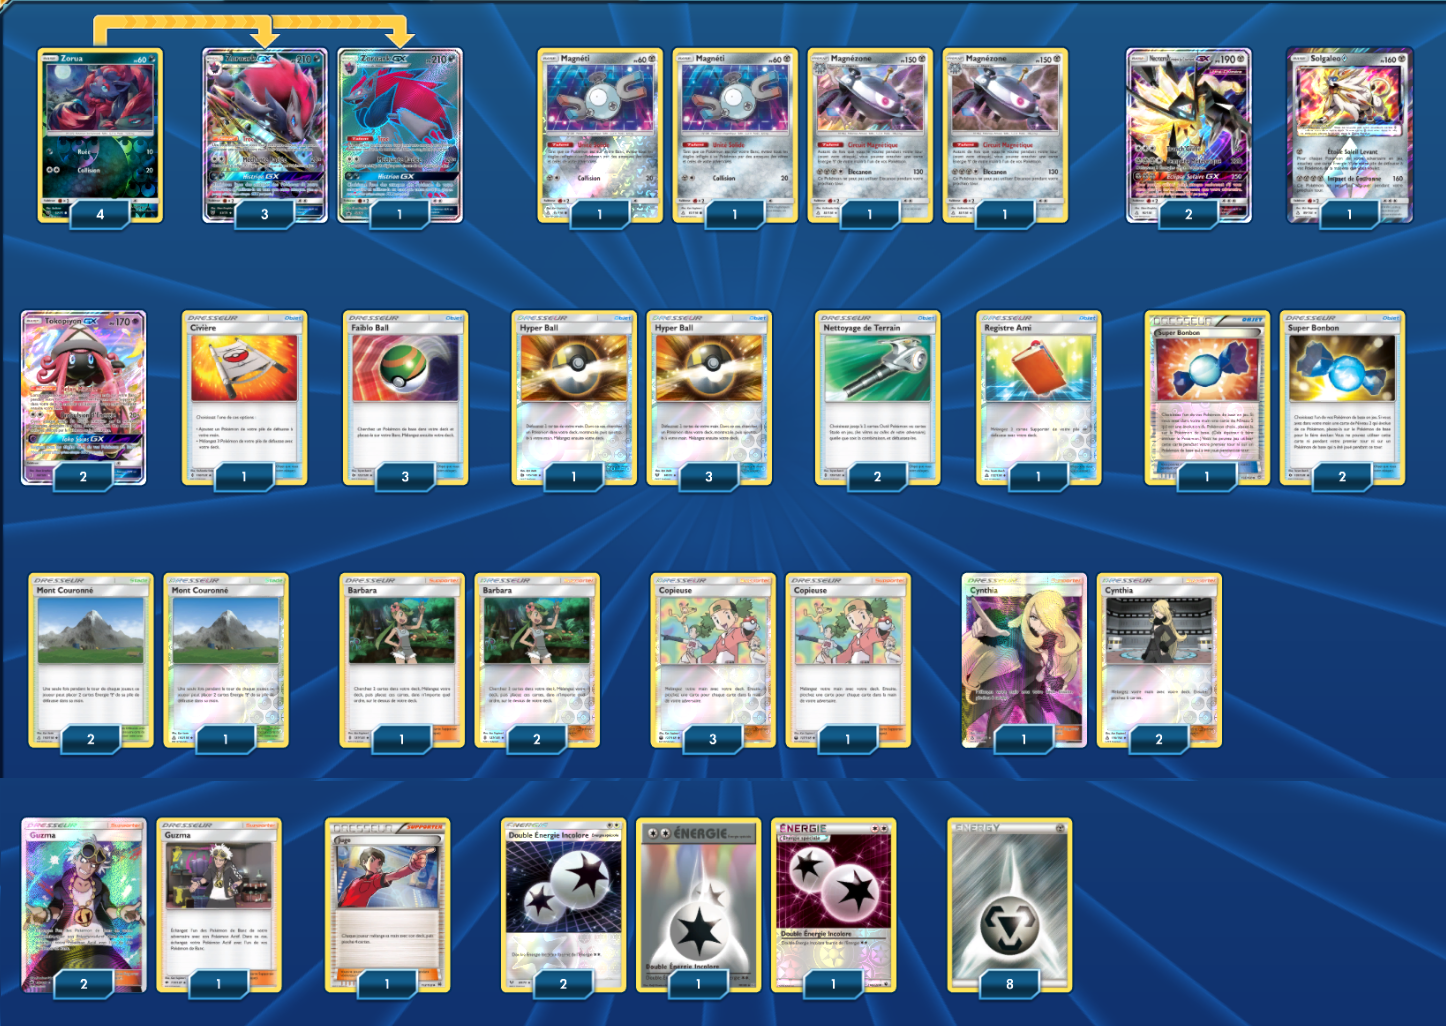
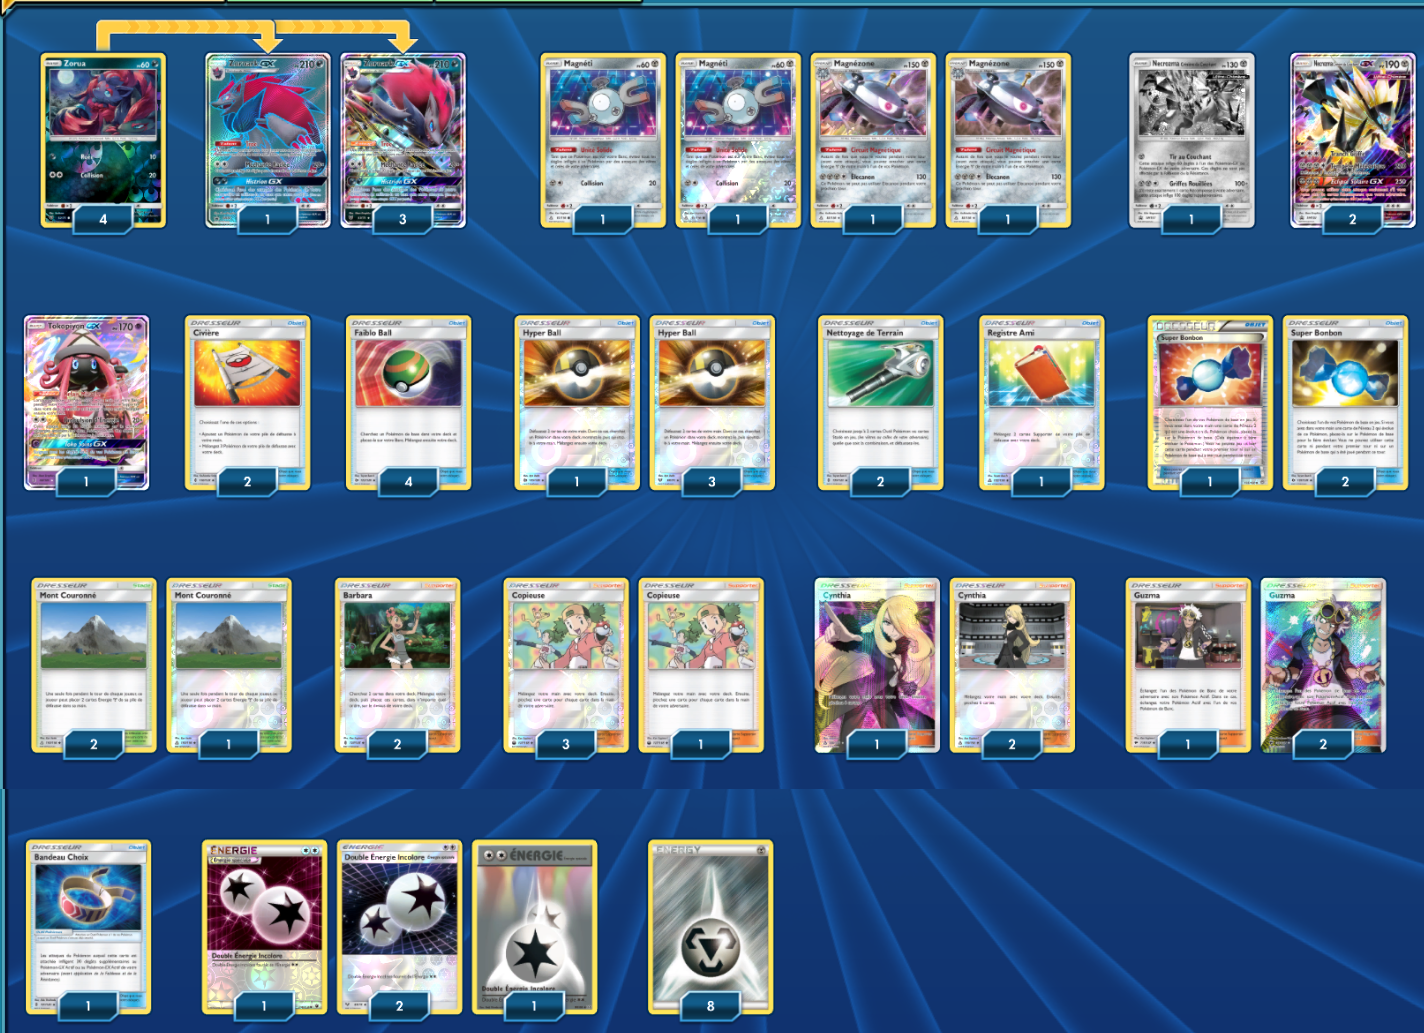
Set Zoro Magnézone

diff --git a/Deck-Liste/Standard/2019/ZoroarkMagnézone.md b/Deck-Liste/Standard/2019/ZoroarkMagnézone.md
@@ -1,35 +1,35 @@
 # Zoroark-GX - Magnézone (Après Rotation)
 
-## Description : Pour le moment le deck tourne plutôt bien. Il se peut que dans certain match up il ne soit pas assez rapide à sortir. Peut être pour la nouvel méta, ajouter une ou des carte(s) afin de contrer certains archétypes. Je pense que le solgaleo promo serai meuilleur que le prisme !!!
+## Description : Pour le moment le deck tourne plutôt bien. Peut être pour la nouvel méta, ajouter une ou des carte(s) afin de contrer certains archétypes.
 
 <br>
 
 ****** Liste de deck du JCC Pokémon ******
 
-##Pokémon - 17
+##Pokémon - 16
 
 * 4 Zorua SLG 52
 * 4 Zoroark-GX SLG 53
 * 2 Magnéti UPR 81
-* 2 Necrozma Crinière du Couchant-GX UPR 90
-* 1 Solgaleo {*} UPR 89
+* 1 Necrozma Crinière du Couchant PR-SM SM107
+* 2 Necrozma Crinière du Couchant-GX PR-SM SM102
 * 2 Magnézone UPR 83
-* 2 Tokopiyon-GX GRI 60
+* 1 Tokopiyon-GX GRI 60
 
-##Cartes Dresseur - 31
+##Cartes Dresseur - 32
 
-* 3 Barbara GRI 127
+* 2 Barbara GRI 127
 * 1 Registre Ami UPR 132
-* 1 Civière GRI 130
+* 2 Civière GRI 130
 * 3 Super Bonbon PRC 135
 * 3 Mont Couronné UPR 130
 * 4 Copieuse CES 127
 * 4 Hyper Ball SUM 135
-* 3 Faiblo Ball SUM 123
+* 4 Faiblo Ball SUM 123
 * 2 Nettoyage de Terrain GRI 125
 * 3 Guzma BUS 115
 * 3 Cynthia UPR 148
-* 1 Juge BKT 143
+* 1 Bandeau Choix GRI 121
 
 ##Énergie - 12
 
